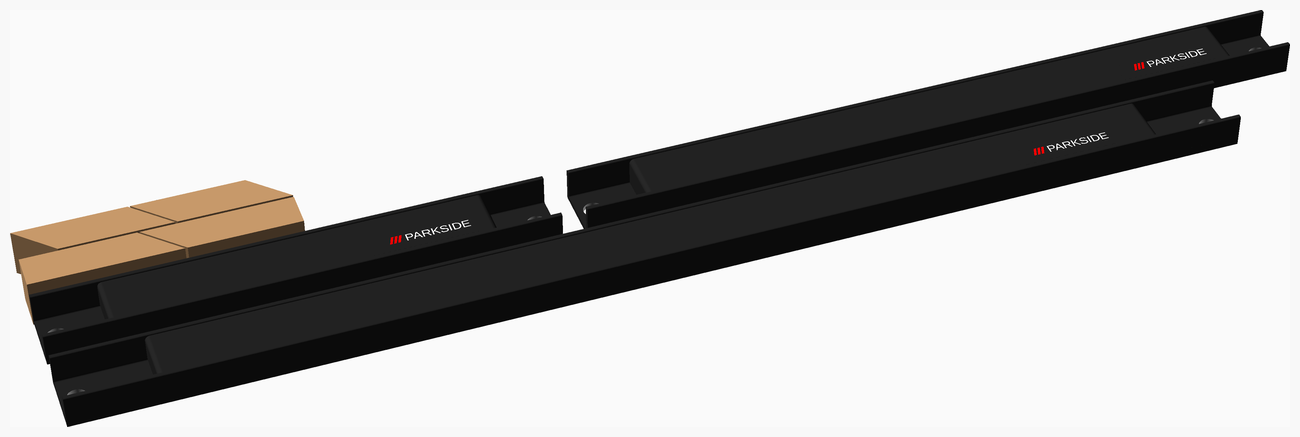
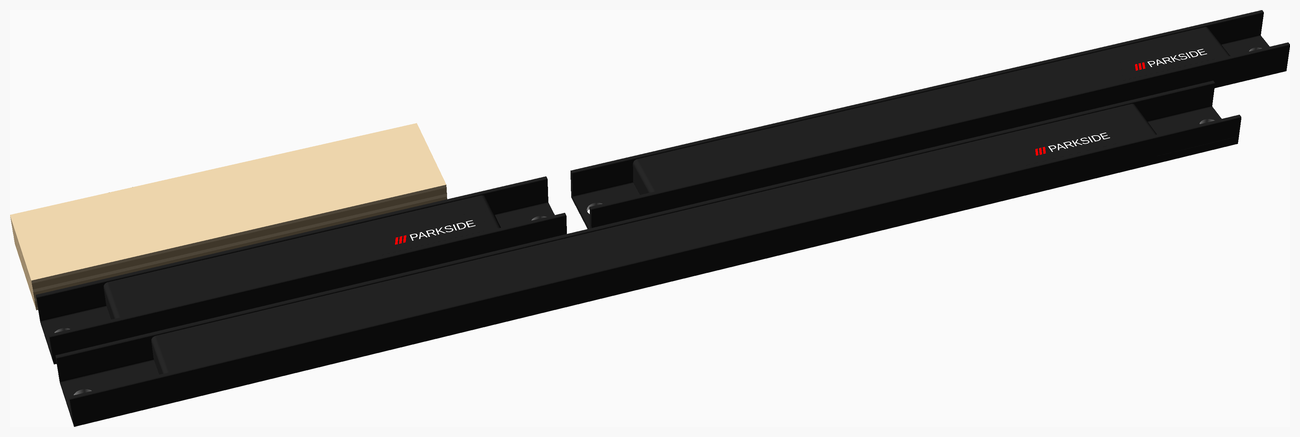
feat: add plywood vitamin

diff --git a/readme.md b/readme.md
@@ -10,12 +10,13 @@ I draw inspiration from the excellent [NopSCADlib](https://github.com/nophead/No
 <table><tr>
 <th align="left"> Vitamins A-H </th><th align="left"> Vitamins I-Q </th><th align="left"> Vitamins R-Z </th></tr>
 <tr><td> <a href = "#french_cleats">French_cleats</a> </td><td> <a href = "#magnet_bars">Magnet_bars</a> </td><td></td></tr>
+<tr><td></td><td> <a href = "#plywoods">Plywoods</a> </td><td></td></tr>
 </table>
 
 ---
 <a name="french_cleats"></a>
 ## French_cleats
-French cleat
+French Cleat
 
 [vitamins/french_cleats.scad](vitamins/french_cleats.scad) Object definitions.
 
@@ -26,17 +27,16 @@ French cleat
 ### Modules
 | Module | Description |
 |:--- |:--- |
-| `french_cleat(type, height, depth, width, bottom = true)` | Draw a french cleat |
+| `french_cleat(type, width, height, depth, bottom = true, nb_ply = 7)` | Draw a french cleat |
 
 ![french_cleats](tests/png/french_cleats.png)
 
 ### Vitamins
 | Qty | Module call | BOM entry |
 | ---:|:--- |:---|
-|   1 | `french_cleat(short,60,15,20,true)` |  Bottom french cleat short 60x15x20 |
-|   1 | `french_cleat(std,60,15,20,true)` |  Bottom french cleat standard 60x15x20 |
-|   1 | `french_cleat(short,60,15,20,false)` |  Top french cleat short 60x15x20 |
-|   1 | `french_cleat(std,60,15,20,false)` |  Top french cleat standard 60x15x20 |
+|   2 | `french_cleat(std,100,40,15,true)` |  Bottom french cleat standard 100x40x15 |
+|   4 | `plywood_plank(7,40,100,15)` |  Plywood plank |
+|   2 | `french_cleat(short,100,40,15,false)` |  Top french cleat short 100x40x15 |
 
 
 <a href="#top">Top</a>
@@ -74,6 +74,30 @@ Parkside Magnetic bar
 |   1 | `magnet_bar(magnetbar_200)` |  Magnetbar 200 wdith |
 |   1 | `magnet_bar(magnetbar_300)` |  Magnetbar 300 width |
 |   1 | `magnet_bar(magnetbar_470)` |  Magnetbar 470 width |
+
+
+<a href="#top">Top</a>
+
+---
+<a name="plywoods"></a>
+## Plywoods
+Plywood plank
+
+[vitamins/plywood.scad](vitamins/plywood.scad) Implementation.
+
+[tests/plywoods.scad](tests/plywoods.scad) Code for this example.
+
+### Modules
+| Module | Description |
+|:--- |:--- |
+| `plywood_plank(nb_ply, width, height, depth)` | Draw a plywood plank |
+
+![plywoods](tests/png/plywoods.png)
+
+### Vitamins
+| Qty | Module call | BOM entry |
+| ---:|:--- |:---|
+|   1 | `plywood_plank(7,100,20,15)` |  Plywood plank |
 
 
 <a href="#top">Top</a>
